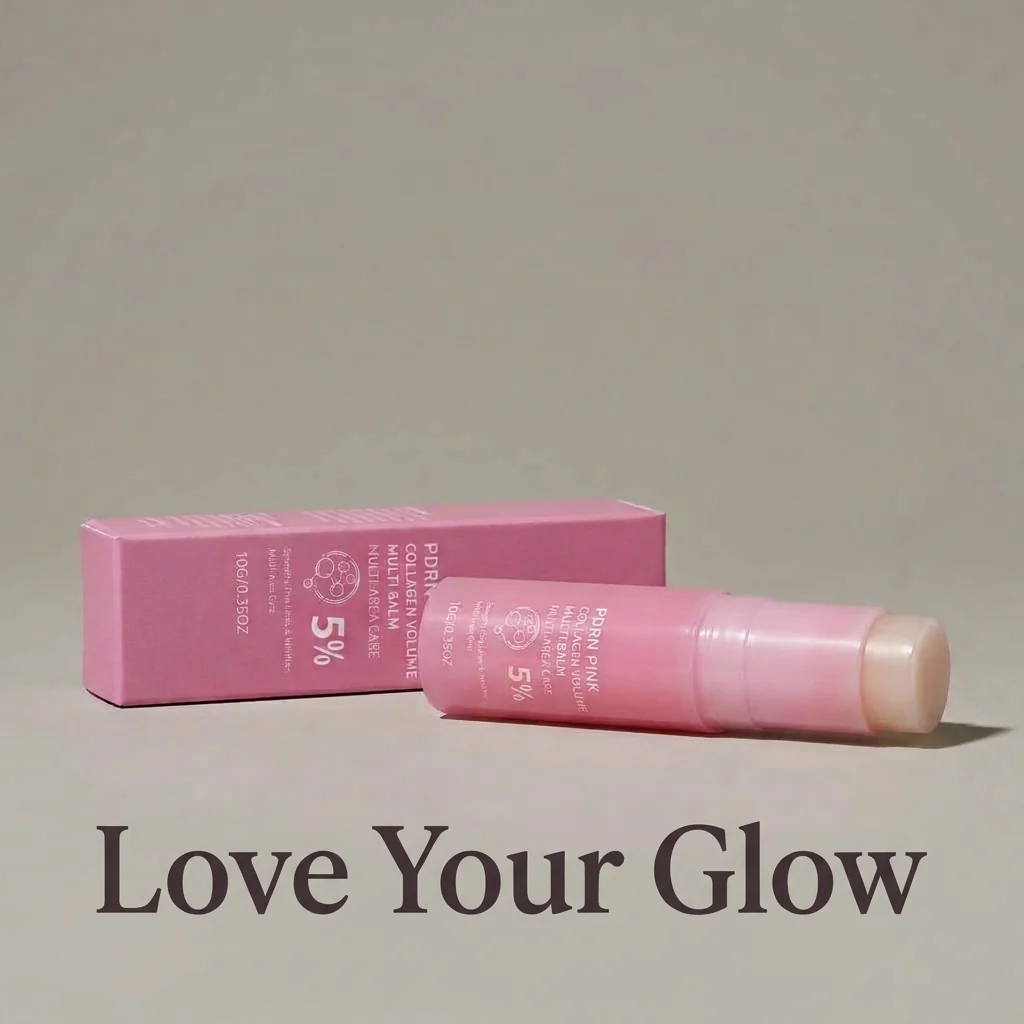
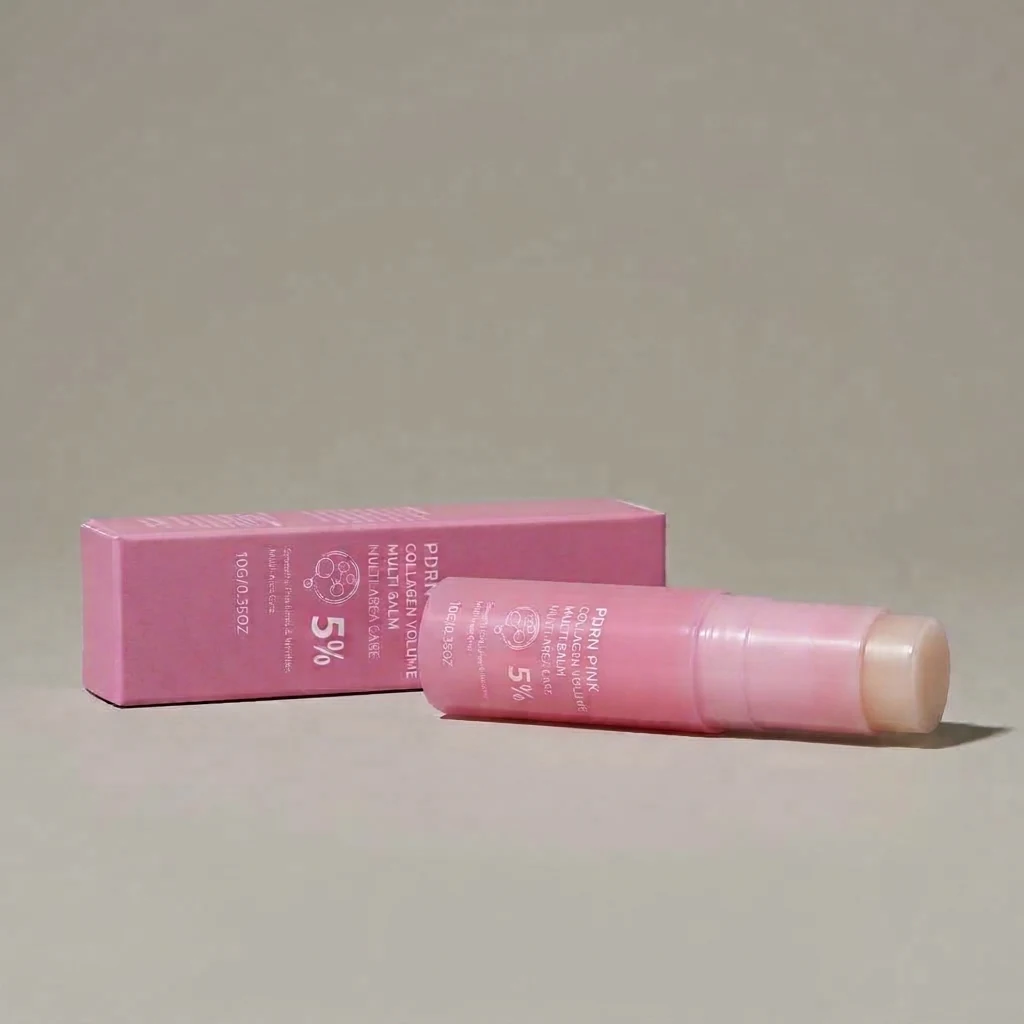
Make the hero a full width product photo with Love Your Glow under it
The banner is now just the product photo edge to edge, then the
catch phrase and the button on the photo's floor colour. The kicker,
heading, text and small print are gone. The photo is a wide crop on
desktop and a 4:3 crop on phones, both keeping the whole product in
frame; its bottom edge fades into the floor colour, and past 1800px
its sides feather into the backdrop. Image, phrase and button stay
editable in the theme editor.

Claude-Session: https://claude.ai/code/session_017XjtVQ7fUNGRxzwpcJG54q

Changed region(s): [[0.375, 0.7812, 0.9062, 0.9062], [0.0938, 0.7812, 0.3438, 0.9062]]

diff --git a/assets/theme.css b/assets/theme.css
@@ -201,62 +201,59 @@ a { color: inherit; }
 
 /* ---------- 0. hero banner ---------- */
 
-/* the photo's own studio backdrop, sampled down its edges from wall to table,
-   so on wide screens the picture has no visible border. The section is exactly
-   as tall as the square photo there, which keeps the stops lined up. */
+/* the photo's own studio backdrop, sampled down the edges of the part shown
+   on wide screens, fills in past the photo where it stops at its widest */
 .hero {
-  --hero-floor: #b8b5ab;
+  --hero-floor: #b7b3aa;
+  background: var(--hero-floor);
+  color: var(--ink);
+  text-align: center;
+}
+.hero__shot {
   background: linear-gradient(180deg,
-    #979186 0%, #9b948a 10%, #9b968a 20%, #9d998d 30%, #9f9a8e 40%, #a09a8f 50%,
-    #aaa69b 60%, #b6b0a8 70%, #b9b6ab 80%, #b8b5ab 90%, #b7b5ab 100%);
-  color: var(--ink);
-  overflow: hidden;
+    #9c978b 0%, #9d968b 12%, #9d978c 25%, #a09a8e 37%, #a8a499 50%,
+    #aca99f 62%, #b5afa6 75%, #b6b3a9 87%, #b7b3aa 100%);
 }
-.hero__in {
-  max-width: var(--wrap);
+.hero__shot img {
+  display: block;
+  width: 100%; max-width: 1800px;
   margin: 0 auto;
-  display: grid;
-  grid-template-columns: minmax(0, 0.95fr) minmax(0, 1.05fr);
-  align-items: center;
+  height: auto;
+  aspect-ratio: 3 / 1;
+  object-fit: cover;
+  object-position: 50% 65%;   /* the product and its shadow, wall above, table below */
+  /* the table runs on into the text area instead of stopping at a line */
+  -webkit-mask-image: linear-gradient(180deg, #000 78%, transparent 100%);
+  mask-image: linear-gradient(180deg, #000 78%, transparent 100%);
 }
-.hero__text { padding: clamp(2.5rem, 6vw, 4.5rem) clamp(1.1rem, 4vw, 2.4rem); }
-.hero__kicker {
-  margin: 0 0 1.1rem;
-  font-size: 0.72rem; font-weight: 800;
-  letter-spacing: 0.2em; text-transform: uppercase;
-  color: var(--ink);
-}
+.hero__text { padding: 0 clamp(1.1rem, 4vw, 2.4rem) clamp(2.4rem, 5vw, 3.4rem); }
 .hero__title {
   font-family: var(--display);
   font-weight: 400;
-  font-size: clamp(2.5rem, 5.6vw, 4.3rem);
-  line-height: 1.02;
+  font-size: clamp(2.7rem, 6.4vw, 5rem);
+  line-height: 1;
   letter-spacing: -0.02em;
-  margin: 0 0 1.1rem;
-  max-width: 13ch;
+  margin: 0 0 clamp(1.2rem, 3vw, 1.8rem);
 }
-.hero__lede { font-size: 1.05rem; max-width: 40ch; margin: 0 0 1.8rem; color: #3b2b30; }
-.hero__btn { padding: 1.05rem 2.3rem; font-size: 0.98rem; box-shadow: 0 12px 28px rgba(126, 44, 66, 0.25); }
-.hero__note {
-  margin: 0.9rem 0 0;
-  font-size: 0.72rem; font-weight: 700;
-  letter-spacing: 0.12em; text-transform: uppercase;
-  color: #4a3b3f;
-}
-.hero__shot img {
-  width: 100%; height: auto; aspect-ratio: 1 / 1; object-fit: cover;
-  /* feather the side edges into the backdrop on wide screens */
-  -webkit-mask-image: linear-gradient(90deg, transparent 0, #000 10%, #000 92%, transparent 100%);
-  mask-image: linear-gradient(90deg, transparent 0, #000 10%, #000 92%, transparent 100%);
+.hero__btn { padding: 1.05rem 2.4rem; font-size: 0.98rem; box-shadow: 0 12px 28px rgba(126, 44, 66, 0.25); }
+
+/* past 1800px the photo stops growing, so feather its sides into the backdrop */
+@media (min-width: 1801px) {
+  .hero__shot img {
+    -webkit-mask-image:
+      linear-gradient(180deg, #000 78%, transparent 100%),
+      linear-gradient(90deg, transparent 0, #000 8%, #000 92%, transparent 100%);
+    -webkit-mask-composite: source-in;
+    mask-image:
+      linear-gradient(180deg, #000 78%, transparent 100%),
+      linear-gradient(90deg, transparent 0, #000 8%, #000 92%, transparent 100%);
+    mask-composite: intersect;
+  }
 }
 
-@media (max-width: 900px) {
-  .hero { background: var(--hero-floor); }
-  .hero__in { grid-template-columns: 1fr; }
-  .hero__shot { order: -1; }
-  .hero__shot img { -webkit-mask-image: none; mask-image: none; }
-  .hero__text { padding-top: 0.4rem; text-align: center; }
-  .hero__title, .hero__lede { margin-inline: auto; }
+@media (max-width: 700px) {
+  /* taller crop on phones so the product stays large across the width */
+  .hero__shot img { aspect-ratio: 4 / 3; object-position: 50% 80%; }
 }
 
 /* ---------- 1. product hero ---------- */
